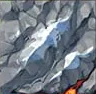
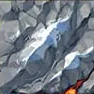
Modified image files

diff --git a/src/app/map/map.component.html b/src/app/map/map.component.html
@@ -32,22 +32,22 @@
       <div class="flex-container">
         <ng-container *ngFor="let clue of clueGrids | slice:0:2" >
           <div *ngIf ="clue.area === areas.PLAINS" class="image-container">
-            <img ngSrc="assets/images/Plains.png" alt="Plains" height="94" width="96">
+            <img ngSrc="assets/images/Plains.png" alt="Plains" height="94" width="94">
           </div>
           <div *ngIf ="clue.area === areas.FIELD" class="image-container">
-            <img ngSrc="assets/images/Field.png" alt="Field" height="98" width="95">
+            <img ngSrc="assets/images/Field.png" alt="Field" height="94" width="94">
           </div>
           <div *ngIf ="clue.area === areas.FOREST" class="image-container">
-            <img ngSrc="assets/images/Forest.png" alt="Forest" height="95" width="96">
+            <img ngSrc="assets/images/Forest.png" alt="Forest" height="94" width="94">
           </div>
           <div *ngIf ="clue.area === areas.WATER" class="image-container">
-            <img ngSrc="assets/images/Water.png" alt="Water" height="99" width="93">
+            <img ngSrc="assets/images/Water.png" alt="Water" height="94" width="94">
           </div>
           <div *ngIf ="clue.area === areas.MOUNTAIN" class="image-container">
-            <img ngSrc="assets/images/Mountain.png" alt="Mountain" height="94" width="96">
+            <img ngSrc="assets/images/Mountain.png" alt="Mountain" height="94" width="94">
           </div>
           <div *ngIf ="clue.area === areas.CITY" class="image-container">
-            <img ngSrc="assets/images/City.png" alt="City" height="95" width="95">
+            <img ngSrc="assets/images/City.png" alt="City" height="94" width="94">
           </div>
         </ng-container>
       </div>
@@ -57,22 +57,22 @@
       <div class="flex-container">
         <ng-container *ngFor="let clue of clueGrids | slice:2: 4" >
           <div *ngIf ="clue.area === areas.PLAINS" class="image-container">
-            <img ngSrc="assets/images/Plains.png" alt="Plains" height="94" width="96">
+            <img ngSrc="assets/images/Plains.png" alt="Plains" height="94" width="94">
           </div>
           <div *ngIf ="clue.area === areas.FIELD" class="image-container">
-            <img ngSrc="assets/images/Field.png" alt="Field" height="98" width="95">
+            <img ngSrc="assets/images/Field.png" alt="Field" height="94" width="94">
           </div>
           <div *ngIf ="clue.area === areas.FOREST" class="image-container">
-            <img ngSrc="assets/images/Forest.png" alt="Forest" height="95" width="96">
+            <img ngSrc="assets/images/Forest.png" alt="Forest" height="94" width="94">
           </div>
           <div *ngIf ="clue.area === areas.WATER" class="image-container">
-            <img ngSrc="assets/images/Water.png" alt="Water" height="99" width="93">
+            <img ngSrc="assets/images/Water.png" alt="Water" height="94" width="94">
           </div>
           <div *ngIf ="clue.area === areas.MOUNTAIN" class="image-container">
-            <img ngSrc="assets/images/Mountain.png" alt="Mountain" height="94" width="96">
+            <img ngSrc="assets/images/Mountain.png" alt="Mountain" height="94" width="94">
           </div>
           <div *ngIf ="clue.area === areas.CITY" class="image-container">
-            <img ngSrc="assets/images/City.png" alt="City" height="95" width="95">
+            <img ngSrc="assets/images/City.png" alt="City" height="94" width="94">
           </div>
         </ng-container>
       </div>

diff --git a/src/app/map/map.component.css b/src/app/map/map.component.css
@@ -173,7 +173,7 @@
   flex-wrap: wrap;
   gap: 10px;
   margin-top: 20px;
-  margin-left: 20px;
+  margin-left: 25px;
 }
 
 .image-container {
